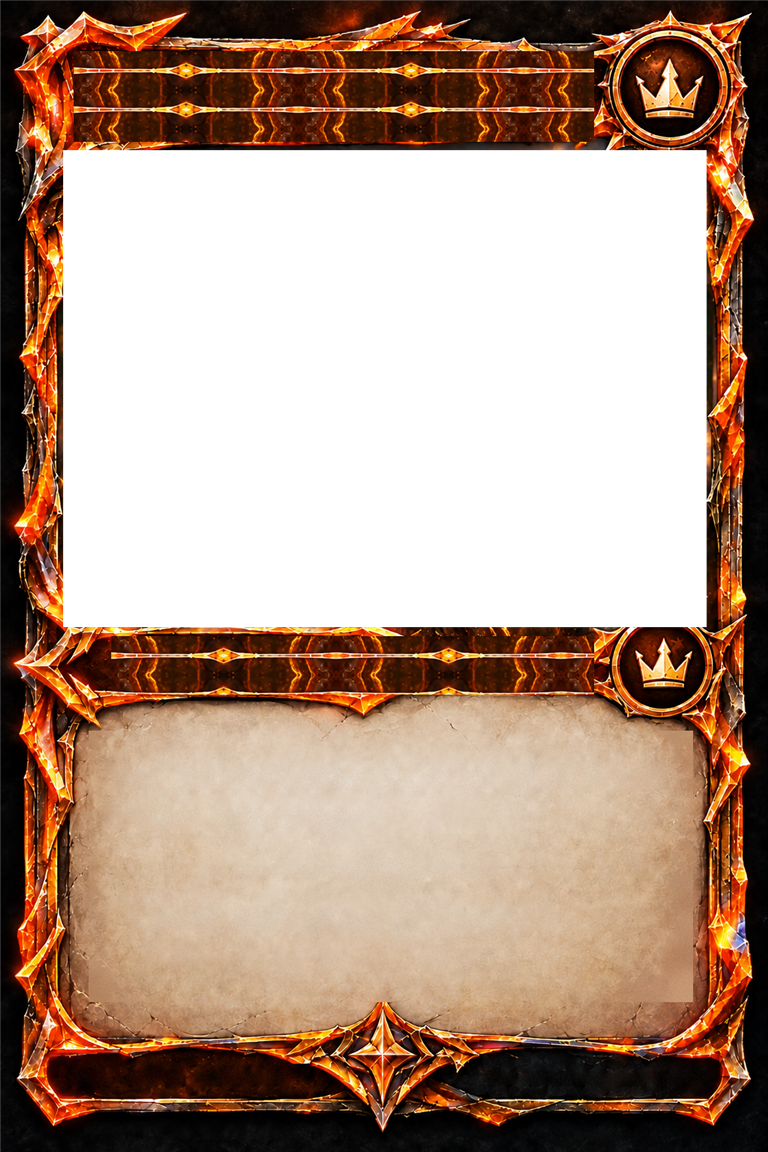
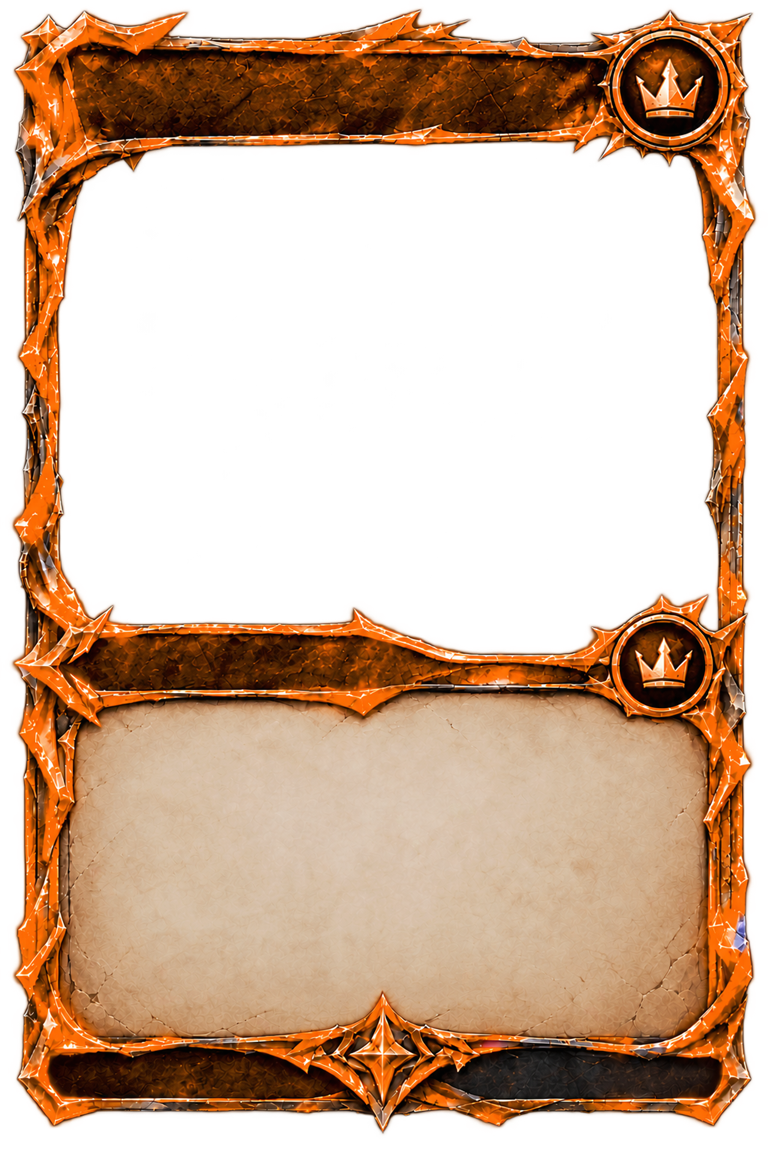
Clean empty tier templates from George; white/gold lettering; re-measured layers

diff --git a/index.html b/index.html
@@ -166,28 +166,30 @@
   .mc{--ink:#1a1208;--coll:#e6dfd0;--tf:#f2f2f2;--ts:#5b5b5b;position:relative;aspect-ratio:2/3;container-type:inline-size;border-radius:4.2cqw;overflow:hidden;background:#000;
     box-shadow:0 22px 44px -18px rgba(0,0,0,.95);font-family:"EB Garamond",Georgia,serif;transform-style:preserve-3d}
   .mc>*{position:absolute}
-  .mc .mc-art{left:8.2%;top:13%;width:83.8%;height:41.4%;object-fit:cover;display:flex;align-items:center;justify-content:center;background:radial-gradient(circle at 50% 40%,#2c2c2c,#0b0b0b 75%)}
+  .mc .mc-art{left:7.8%;top:12.1%;width:85.5%;height:44.7%;object-fit:cover;display:flex;align-items:center;justify-content:center;background:radial-gradient(circle at 50% 40%,#2c2c2c,#0b0b0b 75%)}
   .mc .mc-art .crest{width:50%;height:50%;opacity:.85}
   .mc .mc-frame{inset:0;width:100%;height:100%;pointer-events:none}
   /* metallic lettering: gradient fill + dark edge + drop shadow (filter, not text-shadow, so it sits behind the clipped fill) */
   .mc .mc-title,.mc .mc-type{display:flex;align-items:center;padding:0 2cqw;font-family:Marcellus,Cinzel,serif;white-space:nowrap;overflow:hidden;line-height:1;font-weight:700;
     background:linear-gradient(180deg,#fff 0%,var(--tf) 38%,var(--tf2) 55%,#fff 78%,var(--tf) 100%);-webkit-background-clip:text;background-clip:text;color:transparent;
     -webkit-text-stroke:.18cqw rgba(0,0,0,.55);filter:drop-shadow(0 .25cqw .25cqw rgba(0,0,0,1)) drop-shadow(0 0 1.2cqw rgba(0,0,0,.7))}
-  .mc .mc-title{left:9.6%;top:4.4%;width:67.6%;height:7.9%;font-size:7cqw;letter-spacing:.08cqw}
-  .mc .mc-type{left:14.6%;top:55.3%;width:62.4%;height:4.8%;text-transform:uppercase;font-size:4.4cqw;letter-spacing:.3cqw}
-  .mc{--tf2:#8a8a8a}
-  .mc.tier-rare{--tf2:#8fa6cf} .mc.tier-legendary{--tf2:#b39ad8} .mc.tier-mythic{--tf2:#e0a25a}
-  .mc .mc-text{left:12.6%;top:64%;width:76.2%;height:22.4%;overflow:hidden;color:var(--ink);font-size:4.6cqw;line-height:1.22;font-weight:500;padding:0 .4cqw;white-space:normal;overflow-wrap:anywhere}
+  .mc .mc-title{left:9.8%;top:4.9%;width:67.4%;height:6.5%;font-size:6.6cqw;letter-spacing:.08cqw}
+  .mc .mc-type{left:12.7%;top:54.6%;width:64.5%;height:4.4%;text-transform:uppercase;font-size:4.2cqw;letter-spacing:.3cqw}
+  /* lettering: white on Common and Rare, gold on Legendary and Mythic */
+  .mc{--tf:#ffffff;--tf2:#d9d9d9}
+  .mc.tier-rare{--tf:#ffffff;--tf2:#dbe6ff}
+  .mc.tier-legendary,.mc.tier-mythic{--tf:#ffe9a8;--tf2:#d4a33a}
+  .mc .mc-text{left:11.2%;top:62.4%;width:79%;height:25.6%;overflow:hidden;color:var(--ink);font-size:4.6cqw;line-height:1.22;font-weight:500;padding:.4cqw .8cqw;white-space:normal;overflow-wrap:anywhere}
   .mc .mc-text p{margin:0}
   .mc .mc-div{display:flex;align-items:center;gap:1.2cqw;margin:1.6cqw 0;color:var(--ts)}
   .mc .mc-div::before,.mc .mc-div::after{content:"";flex:1;height:1px;background:currentColor;opacity:.7}
   .mc .mc-div span{font-size:3.4cqw;line-height:1}
   .mc .mc-text .fl{font-style:italic}
-  .mc .mc-coll{top:92.2%;height:2.6%;font-family:Marcellus,serif;font-size:2.3cqw;letter-spacing:.2cqw;text-transform:uppercase;color:var(--coll);display:flex;align-items:center;text-shadow:0 1px 2px #000;white-space:nowrap}
-  .mc .mc-coll.l{left:9.2%} .mc .mc-coll.r{right:8.6%}
-  .mc.tier-rare{--ink:#e9eefb;--ts:#b8c6e6;--tf:#eef3ff}
-  .mc.tier-legendary{--tf:#f3ead2;--ts:#6b4a9a}
-  .mc.tier-mythic{--tf:#ffe9c2;--ts:#b5581c}
+  .mc .mc-coll{top:92.1%;height:2.6%;font-family:Marcellus,serif;font-size:2.3cqw;letter-spacing:.2cqw;text-transform:uppercase;color:var(--coll);display:flex;align-items:center;text-shadow:0 1px 2px #000;white-space:nowrap}
+  .mc .mc-coll.l{left:10.7%} .mc .mc-coll.r{right:10.2%}
+  .mc.tier-rare{--ts:#4a5d85}
+  .mc.tier-legendary{--ts:#6b4a9a}
+  .mc.tier-mythic{--ts:#b5581c}
   .mc .holo{inset:0;pointer-events:none;mix-blend-mode:screen;opacity:.7;
     background:linear-gradient(115deg,transparent 30%,rgba(255,255,255,.16) 43%,rgba(122,240,255,.22) 48%,rgba(255,122,217,.22) 53%,rgba(165,255,138,.16) 58%,transparent 72%);
     background-size:260% 260%;background-position:var(--hx,0%) var(--hy,0%);animation:holoSheen 6s ease-in-out infinite}
@@ -539,7 +541,7 @@
 (() => {
   // Bump on every push. GitHub Pages caches for 10 minutes; on load we peek at the live
   // copy and hop to a cache-busted URL if a newer build is out, so nobody runs stale code.
-  const BUILD = '2026-09-17-3';
+  const BUILD = '2026-09-17-4';
   fetch(location.pathname + '?cb=' + Date.now(), { cache: 'no-store' }).then(r => r.text()).then(html => {
     const m = html.match(/const BUILD = '([^']+)'/);
     if (m && m[1] !== BUILD && !location.search.includes('v=' + m[1])) location.replace(location.pathname + '?v=' + m[1] + location.hash);
